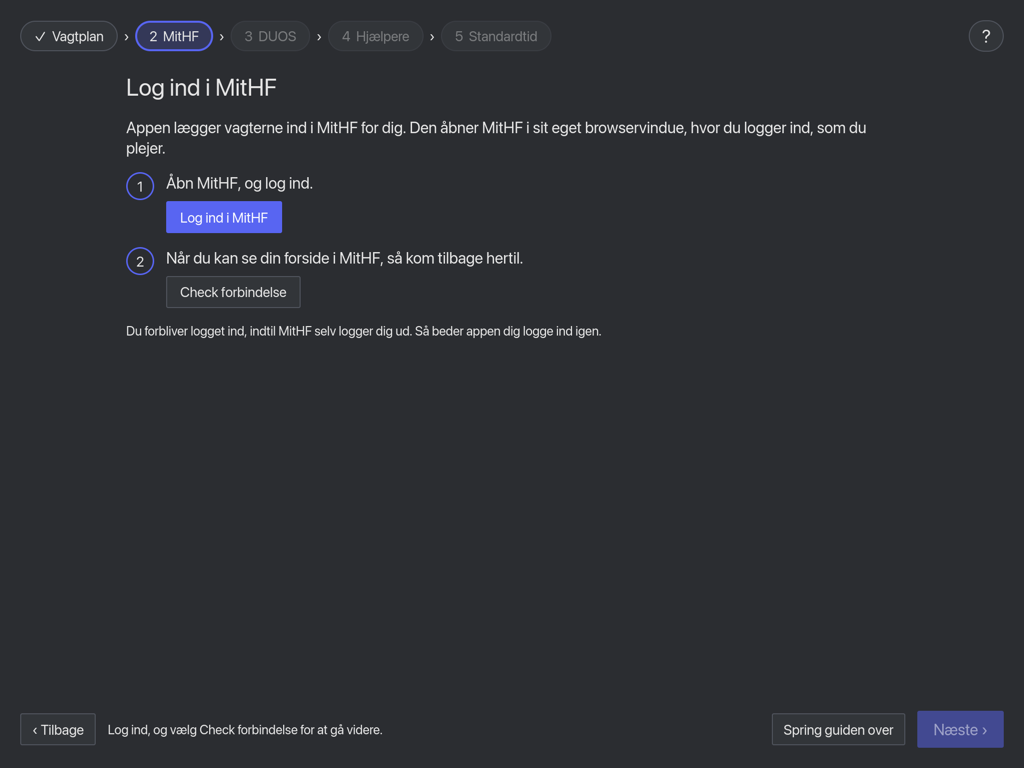
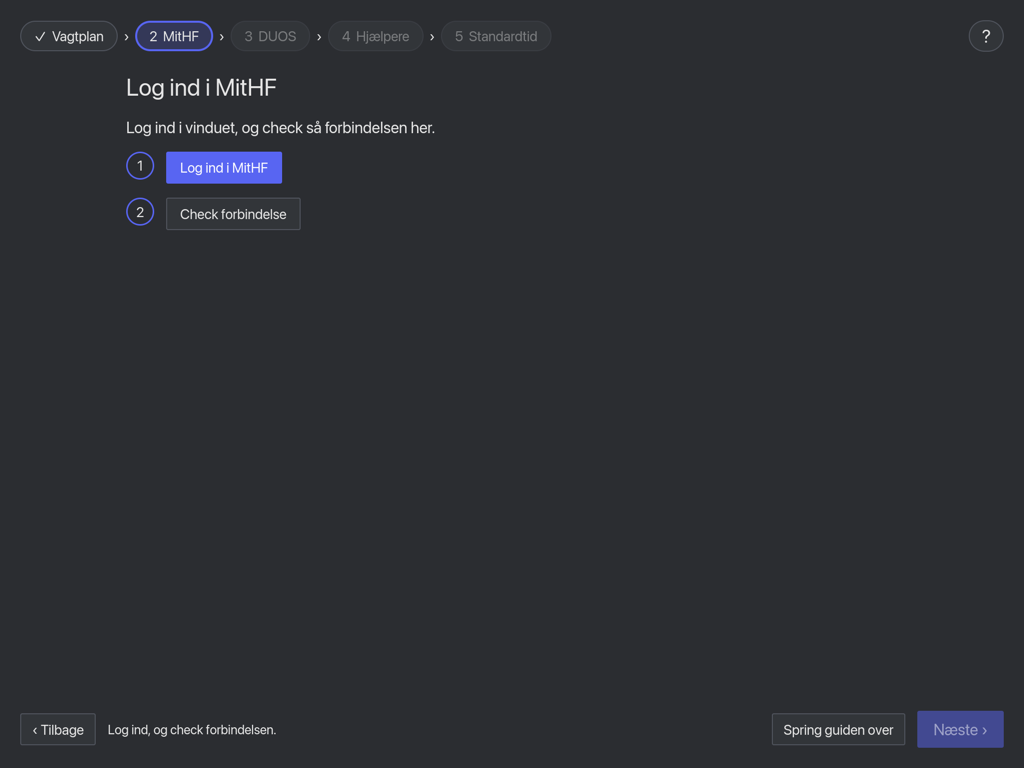
Cut the guide's text to what each step needs
Every step said more than it had to. Intros are one short line, the login
steps are two numbered buttons, the source cards and hints are a few
words each, and the closing page is three short steps. On Hjælpere the
unconfirmed state is a Bekræft button instead of a sentence beside one,
and the hint below says »Vælg Bekræft.« once every calendar is chosen
rather than asking for choices that are already made. The helper detail
drops its explanation line, and an excluded calendar says »Udeladt –
overføres ikke.«

Changed region(s): [[0.125, 0.1562, 0.8438, 0.375], [0.125, 0.375, 0.5938, 0.4375], [0.125, 0.9375, 0.375, 0.9688]]

diff --git a/desktop/src/guide.rs b/desktop/src/guide.rs
@@ -280,46 +280,57 @@ impl Guide {
             .find(|step| *step <= self.step && !self.done(*step, state));
         match open {
             Some(step) if step < self.step => {
-                format!("Gør trinnet »{}« færdigt først.", step.label())
+                format!("Gør »{}« færdig først.", step.label())
             }
-            Some(Step::Source) => "Tilslut vagtplanen for at gå videre.".into(),
-            Some(Step::Mithf) => "Log ind, og vælg Check forbindelse for at gå videre.".into(),
+            Some(Step::Source) => "Tilslut vagtplanen.".into(),
+            Some(Step::Mithf) => "Log ind, og check forbindelsen.".into(),
             Some(Step::Duos) if state.arrangements.is_empty() => {
-                "Log ind i DUOS, og vælg Check forbindelse.".into()
+                "Log ind, og check forbindelsen.".into()
             }
-            Some(Step::Duos) => "Vælg din SPS-ordning for at gå videre.".into(),
+            Some(Step::Duos) => "Vælg SPS-ordning.".into(),
             // The page shows why the choices are blocked until that notice
             // hides; the reason stays here after it.
             Some(Step::Helpers) => state
                 .blocked
                 .clone()
                 .filter(|_| ui.blocked_hidden)
-                .unwrap_or_else(|| "Vælg en hjælper for hver kalender, eller udelad den.".into()),
+                .unwrap_or_else(|| {
+                    // With every calendar chosen, only the confirmation is left.
+                    if state
+                        .mappings
+                        .iter()
+                        .all(|m| m.excluded || !m.mithf.is_empty())
+                    {
+                        "Vælg Bekræft.".into()
+                    } else {
+                        "Vælg en hjælper for hver kalender.".into()
+                    }
+                }),
             _ => String::new(),
         }
     }
 
     fn welcome(&self, busy: bool) -> Column<'_, Message> {
         let needs = column![
-            text("• Din vagtplan: et TeamUp-link, et regneark eller et kalenderlink"),
-            text("• Dit login til MitHF"),
-            text("• Dit login til DUOS, hvis du registrerer SPS-timer"),
+            text("• Din vagtplan: TeamUp, et regneark eller en kalender"),
+            text("• Login til MitHF"),
+            text("• Login til DUOS, hvis du har SPS-timer"),
         ]
         .spacing(6);
         column![
             text("Velkommen til BPA Overblik").size(28),
-            text("Appen henter ugens vagter fra din vagtplan og lægger dem ind i MitHF, og SPS-timer i DUOS, hvis du bruger det. Du ser altid ugen og godkender ændringerne, før noget bliver overført."),
+            text("Overfør ugens vagter til MitHF og DUOS. Du godkender altid først."),
             crate::widgets::group(text("Det skal du bruge").size(14), needs),
-            text("Det tager 5–10 minutter. Alt gemmes undervejs, så du kan lukke appen og fortsætte senere.").size(13),
+            text("Tager ca. 5 minutter. Alt gemmes undervejs.").size(13),
             row![
                 primary("Kom i gang", Message::Next, true),
-                quiet("Jeg sætter selv op under Indstillinger", Message::Skip, true),
+                quiet("Spring over", Message::Skip, true),
             ]
             .spacing(12),
             space::vertical().height(12),
             crate::widgets::card(
                 row![
-                    text("Skal du kun bruge Kompensationsydelse? Den kræver ingen opsætning.")
+                    text("Kun Kompensationsydelse? Kræver ingen opsætning.")
                         .size(13)
                         .width(Length::Fill),
                     quiet("Åbn Kompensationsydelse", Message::Compensation, !busy),
@@ -364,7 +375,7 @@ impl Guide {
             .map_or("Vagtplanen", |(_, name, _)| *name);
         let mut content = column![
             title("Hvor ligger din vagtplan?"),
-            text("Vælg der, hvor du planlægger vagterne. Appen læser kun vagtplanen og ændrer aldrig i den."),
+            text("Appen læser kun. Den ændrer intet i vagtplanen."),
             choices,
         ];
         if state.stage == "source" {
@@ -404,14 +415,14 @@ impl Guide {
         };
         let mut content = column![].spacing(14);
         if service == Service::Mithf {
-            content = content.push(title("Log ind i MitHF")).push(text(
-                "Appen lægger vagterne ind i MitHF for dig. Den åbner MitHF i sit eget browservindue, hvor du logger ind, som du plejer.",
-            ));
+            content = content
+                .push(title("Log ind i MitHF"))
+                .push(text("Log ind i vinduet, og check så forbindelsen her."));
         }
         content = content
             .push(numbered(
                 1,
-                format!("Åbn {name}, og log ind."),
+                String::new(),
                 Some(primary_or_quiet(
                     format!("Log ind i {name}"),
                     Message::Setup(setup::Message::Login(service)),
@@ -421,7 +432,7 @@ impl Guide {
             ))
             .push(numbered(
                 2,
-                format!("Når du kan se din forside i {name}, så kom tilbage hertil."),
+                String::new(),
                 Some(primary_or_quiet(
                     "Check forbindelse".to_owned(),
                     Message::Setup(setup::Message::CheckLogin(service)),
@@ -432,16 +443,9 @@ impl Guide {
         if checked {
             content = content.push(success(format!("Du er logget ind i {name}.")));
         }
-        if service == Service::Mithf {
-            content = content.push(
-                text(format!(
-                    "Du forbliver logget ind, indtil {name} selv logger dig ud. Så beder appen dig logge ind igen."
-                ))
-                .size(13),
-            );
-        } else if checked && state.arrangements.is_empty() {
+        if service == Service::Duos && checked && state.arrangements.is_empty() {
             content = content.push(if busy {
-                column![text("Henter dine ordninger fra DUOS …").size(13)]
+                column![text("Henter ordninger …").size(13)]
             } else {
                 column![row![quiet(
                     "Hent ordninger",
@@ -456,8 +460,8 @@ impl Guide {
     fn duos<'a>(&'a self, state: &'a SetupState, busy: bool) -> Column<'a, Message> {
         let mut choices = row![].spacing(10);
         for (enabled, name, about) in [
-            (true, "Ja", "Registrér SPS-timer i DUOS"),
-            (false, "Nej", "Overfør kun vagter til MitHF"),
+            (true, "Ja", "Registrér SPS-timer"),
+            (false, "Nej", "Kun MitHF"),
         ] {
             let active = state.duos_enabled == enabled;
             choices = choices.push(
@@ -480,27 +484,22 @@ impl Guide {
         }
         let mut content = column![
             title("Registrerer du SPS-timer i DUOS?"),
-            text("Står der SPS-timer i vagtplanen, kan appen også registrere dem i DUOS. Hjælperen godkender selv registreringen i DUOS bagefter."),
+            text("Hjælperen godkender selv registreringen i DUOS."),
             choices,
         ];
         if !state.duos_enabled {
-            return content.push(
-                text("Appen overfører kun vagter til MitHF. Du kan slå DUOS til senere under Indstillinger → Udbydere.")
-                    .size(13),
-            );
+            return content.push(text("Kan slås til senere under Udbydere.").size(13));
         }
         content = content.push(self.login(state, Service::Duos, busy));
         if let Some(picker) = setup::arrangement_picker(state) {
             content = content.push(numbered(
                 3,
-                "Vælg den SPS-ordning, timerne skal registreres på.".to_owned(),
+                "Vælg SPS-ordning.".to_owned(),
                 Some(picker.map(Message::Setup)),
             ));
         }
         if let Some(arrangement) = setup::arrangement_name(state) {
-            content = content.push(success(format!(
-                "DUOS er klar med ordningen {arrangement}."
-            )));
+            content = content.push(success(format!("DUOS: {arrangement}")));
         }
         content
     }
@@ -527,14 +526,10 @@ impl Guide {
                 ),
             ]
             .align_y(iced::alignment::Vertical::Center),
-            text(format!(
-                "Hver kalender i vagtplanen skal pege på den rigtige hjælper i {services}. Navne, der passer præcist, er valgt for dig. Vælg resten, og udelad kalendere, der ikke er hjælpere. Valg gemmes med det samme."
-            )),
+            text(format!("Vælg hjælperen i {services} for hver kalender.")),
         ];
         if busy && state.mappings.is_empty() {
-            content = content.push(text(format!(
-                "Henter hjælpere fra vagtplanen og {services} …"
-            )));
+            content = content.push(text("Henter hjælpere …"));
         } else {
             content = content.push(ui.view(setup::Section::Helpers).map(Message::Setup));
         }
@@ -543,21 +538,11 @@ impl Guide {
         } else if state.blocked.is_none() && !state.mappings.is_empty() {
             // Valid choices confirm themselves after a fresh check of the
             // services, so a failed check is what is left.
-            content = content.push(
-                row![
-                    text(format!(
-                        "Valgene er gemt, men skal bekræftes mod {services}."
-                    ))
-                    .size(13),
-                    quiet(
-                        "Bekræft",
-                        Message::Setup(setup::Message::Action("auto_confirm", json!({}))),
-                        !busy,
-                    ),
-                ]
-                .spacing(12)
-                .align_y(iced::alignment::Vertical::Center),
-            );
+            content = content.push(row![primary(
+                "Bekræft",
+                Message::Setup(setup::Message::Action("auto_confirm", json!({}))),
+                !busy,
+            )]);
         }
         content
     }
@@ -573,9 +558,9 @@ impl Guide {
     fn done_page(&self, busy: bool) -> Column<'_, Message> {
         let mut steps = column![].spacing(10);
         for (number, line) in [
-            "Vælg ugen, og vælg Se vagtplan.",
-            "Løs advarslerne i sidepanelet. Rettelser laves i vagtplanen eller i MitHF og DUOS, ikke i appen.",
-            "Vælg Godkend ændringer. Hver ændring læses tilbage og kontrolleres, før den næste begynder.",
+            "Vælg Se vagtplan.",
+            "Ret eventuelle advarsler i vagtplanen.",
+            "Vælg Godkend ændringer.",
         ]
         .into_iter()
         .enumerate()
@@ -584,9 +569,9 @@ impl Guide {
         }
         column![
             title("✓ Du er klar"),
-            text("Sådan overfører du en uge:"),
+            text("Hver uge:"),
             steps,
-            text("Appen sletter aldrig noget i MitHF eller DUOS. Du kan altid ændre opsætningen under ⚙ Indstillinger.").size(13),
+            text("Appen sletter aldrig noget i MitHF eller DUOS.").size(13),
             row![
                 quiet("‹ Tilbage", Message::Back, true),
                 primary("Se denne uges vagtplan", Message::Finish, !busy),
@@ -598,34 +583,20 @@ impl Guide {
 
 /// The shift sources: id, name and what each covers.
 const SOURCES: [(&str, &str, &str); 3] = [
-    (
-        "teamup",
-        "TeamUp",
-        "En TeamUp-kalender med én underkalender pr. hjælper.",
-    ),
-    (
-        "sheets",
-        "Regneark",
-        "Google Sheets, Excel, Nextcloud, Dropbox eller en fil på computeren.",
-    ),
-    (
-        "ical",
-        "Kalender (iCal)",
-        "Google Kalender, Outlook, iCloud eller Nextcloud via et kalenderlink.",
-    ),
+    ("teamup", "TeamUp", "Én kalender pr. hjælper."),
+    ("sheets", "Regneark", "Sheets, Excel eller en fil."),
+    ("ical", "Kalender (iCal)", "Google, Outlook eller iCloud."),
 ];
 
 /// Where to find what the source's form asks for. TeamUp's form already
 /// says it beside its fields.
 fn source_hints(source: &str) -> &'static [&'static str] {
     match source {
-        "sheets" => &[
-            "Del regnearket, så alle med linket kan se det, og indsæt linket. Eller vælg en fil på computeren.",
-        ],
+        "sheets" => &["Del arket, så alle med linket kan se det."],
         "ical" => &[
-            "Google Kalender: Indstillinger → kalenderen → Integrer kalender → Hemmelig adresse i iCal-format.",
-            "Outlook: Indstillinger → Kalender → Delte kalendere → Udgiv en kalender → ICS-linket.",
-            "iCloud: Del kalenderen, slå Offentlig kalender til, og kopiér linket.",
+            "Google: Indstillinger → kalenderen → Hemmelig adresse i iCal-format.",
+            "Outlook: Indstillinger → Delte kalendere → Udgiv en kalender.",
+            "iCloud: Del kalenderen som offentlig kalender.",
         ],
         _ => &[],
     }
@@ -641,7 +612,10 @@ fn numbered<'a>(
     line: String,
     action: Option<Element<'a, Message>>,
 ) -> Element<'a, Message> {
-    let mut lines = column![text(line)].spacing(8).width(Length::Fill);
+    let mut lines = column![].spacing(8).width(Length::Fill);
+    if !line.is_empty() {
+        lines = lines.push(text(line));
+    }
     if let Some(action) = action {
         lines = lines.push(action);
     }

diff --git a/desktop/src/setup.rs b/desktop/src/setup.rs
@@ -643,7 +643,7 @@ impl SetupUi {
         if mapping.excluded {
             return column![
                 heading,
-                text("Kalenderen er udeladt, så dens vagter overføres ikke."),
+                text("Udeladt – overføres ikke."),
                 row![quiet_button(
                     "Medtag igen",
                     Message::Action("edit", json!({"source": source_id, "excluded": false})),
@@ -699,10 +699,6 @@ impl SetupUi {
         column![
             heading,
             flow,
-            text(format!(
-                "Vagter i »{calendar}« overføres til disse personer. Vælg en anden, hvis et navn er forkert."
-            ))
-            .size(13),
             row![quiet_button(
                 "Udelad kalenderen",
                 Message::Action("edit", json!({"source": source_id, "excluded": true})),
